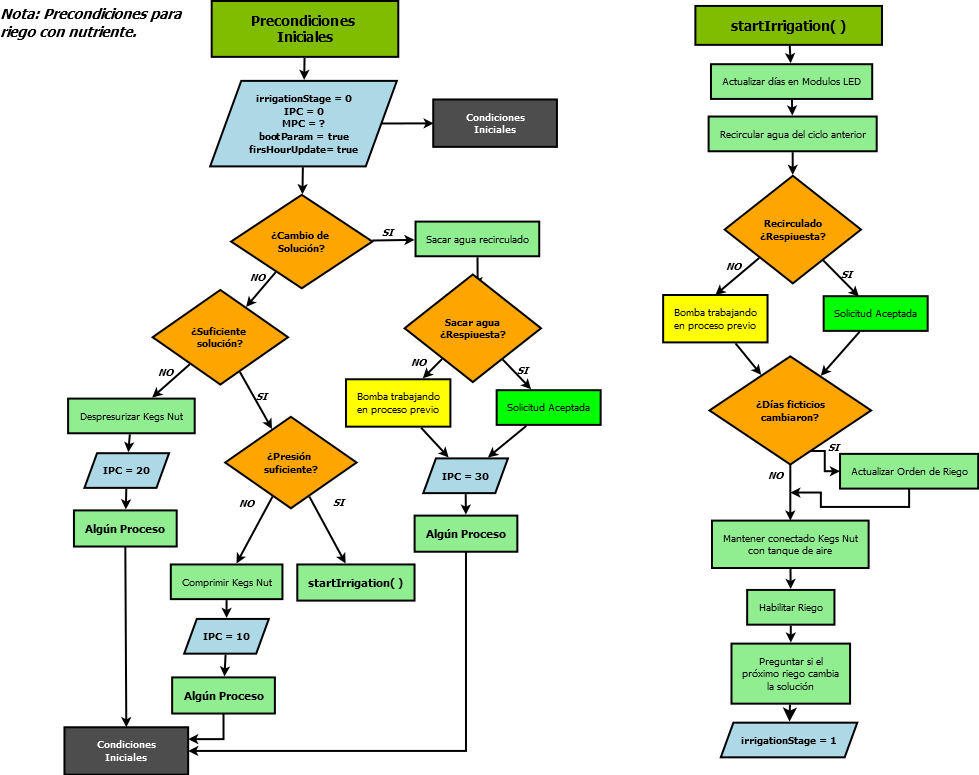
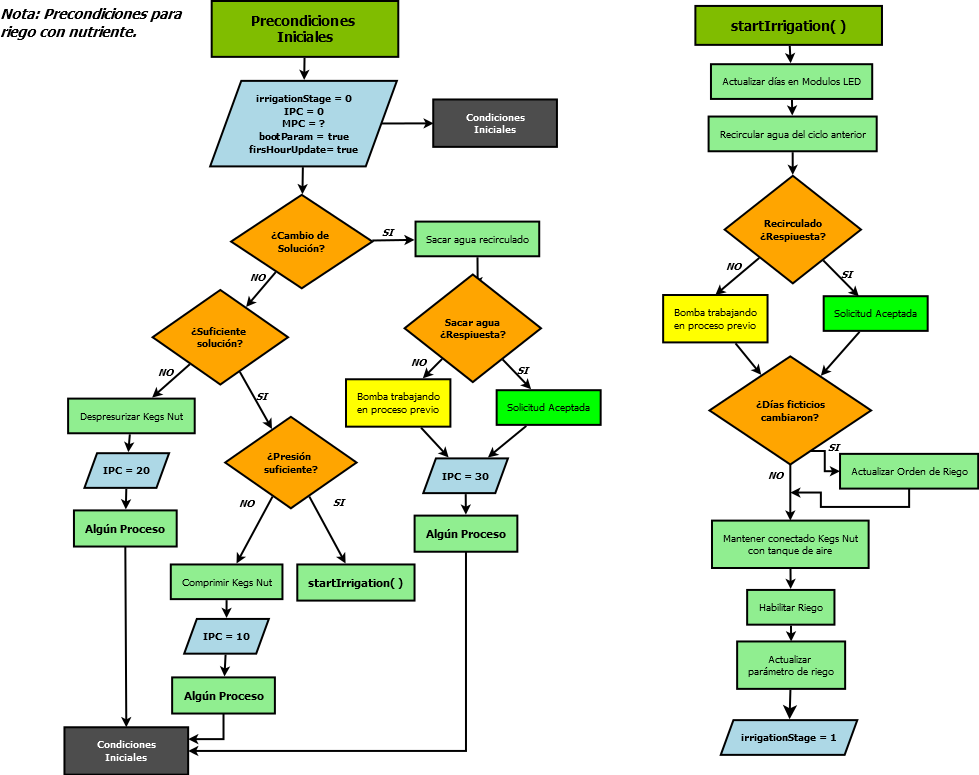
Creation of irrigationControl class and full integration in generalControl, flowCharts updated

Changed region(s): [[0.7354, 0.8052, 0.8887, 0.991]]

diff --git a/C++/libs/Grow/day.cpp b/C++/libs/Grow/day.cpp
@@ -16,7 +16,7 @@ MultiDay::MultiDay() // Constructor
 MultiDay::MultiDay(uint8_t cyclesPerDay, float percentageLight, float initialHour) // Constructor
   { __isItDay = LOW;
 
-    if(24%cyclesPerDay == 0 && percentageLight>=0 && percentageLight<=100 && initialHour<24 && initialHour>=0 ){ // If paremeters are wrong then...
+    if(24%cyclesPerDay == 0 && percentageLight>=0 && percentageLight<=100 && initialHour<24 && initialHour>=0 ){ // If paremeters are fine then...
       int hoursPerDay = 24/cyclesPerDay;
       __daysPerDay = cyclesPerDay;
       __hoursDay = (hoursPerDay*percentageLight)/100;
@@ -36,12 +36,6 @@ MultiDay::MultiDay(uint8_t cyclesPerDay, float percentageLight, float initialHou
        __hoursDay = 16;
        __hoursNight = 8;
        __beginHour[0] = 6;
-       // Cycles are not a divisor of 24 hrs
-       if(24%cyclesPerDay != 0){ Serial.println(F("Parameter cyclesPerDay incorrect")); }
-       // percentageLight out of range [0-100]
-       if(percentageLight<0 || percentageLight>100){ Serial.println(F("Parameter percentageLight incorrect")); }
-       // initialHourout of Range [0-24) hrs
-       if(initialHour>=24 || initialHour<0){ Serial.println(F("Parameter initialHour incorrect")); }
     }
   }
 
@@ -75,7 +69,7 @@ void MultiDay::redefine(uint8_t cyclesPerDay, float percentageLight, float initi
   }
 
 bool MultiDay::isDay(uint8_t HOUR, uint8_t MINUTE)
-  { float actualHour = HOUR + MINUTE/60;
+  { float actualHour = float(HOUR) + float(MINUTE)/60;
     uint8_t control_Stage = 200;
 
     for(int i=__daysPerDay-1; i>=0; i--){
@@ -193,4 +187,189 @@ void LED_Mod::enable(uint8_t floor, uint8_t region)
         else{ ptr[i]->enable(false); }
       }
     }
+  }
+
+/***   irrigationController   ***/
+irrigationController::irrigationController() // Default Constructor
+  { __solution = 0; // Not solution define yet
+    __actualCycle = 0;
+    __cyclesPerDay = 1;
+    __hoursPerCycle = 24;
+    __beginHour[0] = 0;
+
+    for(int i=0; i<MAX_SOLUTIONS_NUMBER; i++){
+      __order[i] = i;
+      __percentage[i] = 25;
+    }
+  }
+
+// Constructor
+irrigationController::irrigationController( uint8_t cyclesPerDay,
+                                            uint8_t initialHour,
+                                            uint8_t ord1,
+                                            uint8_t ord2,
+                                            uint8_t ord3,
+                                            uint8_t ord4,
+                                            uint8_t per1,
+                                            uint8_t per2,
+                                            uint8_t per3,
+                                            uint8_t per4 ){
+    __solution = 0; // Not solution define yet
+    __actualCycle = 0;
+
+    // If paremeters are fine then...
+    if(24%cyclesPerDay==0 && initialHour<24 && initialHour>=0 &&
+       ord1+ord2+ord3+ord4==6 &&
+       ord1!=ord2 && ord1!=ord3 && ord1!=ord4 && ord2!=ord3 && ord2!=ord4 && ord3!=ord4 &&
+       per1+per2+per3+per4==100){
+
+      __cyclesPerDay = cyclesPerDay;
+      __hoursPerCycle = 24/cyclesPerDay;
+
+      __beginHour[0] = initialHour-__hoursPerCycle*int(initialHour/__hoursPerCycle);
+
+      if(__cyclesPerDay>1){
+        for(int i=1; i<__cyclesPerDay; i++){
+          __beginHour[i] = __beginHour[i-1] + __hoursPerCycle;
+        }
+      }
+
+      __order[0] = ord1; __order[1] = ord2; __order[2] = ord3; __order[3] = ord4;
+      __percentage[0] = per1; __percentage[1] = per2;
+      __percentage[2] = per3; __percentage[3] = per4;
+    }
+
+    else{ // If parameters are wrong set default cycle.
+        __cyclesPerDay = 1;
+        __hoursPerCycle = 24;
+        __beginHour[0] = 0;
+
+        for(int i=0; i<MAX_SOLUTIONS_NUMBER; i++){
+          __order[i] = i;
+          __percentage[i] = 25;
+        }
+    }
+  }
+
+uint8_t irrigationController::getSolution()
+  { return __solution; }
+
+uint8_t irrigationController::getCycle()
+  { return __actualCycle; }
+
+void irrigationController::redefine( uint8_t cyclesPerDay,
+                                     uint8_t initialHour,
+                                     uint8_t ord1,
+                                     uint8_t ord2,
+                                     uint8_t ord3,
+                                     uint8_t ord4,
+                                     uint8_t per1,
+                                     uint8_t per2,
+                                     uint8_t per3,
+                                     uint8_t per4 ){
+    __actualCycle = 0;
+
+    // If paremeters are fine then...
+    if(24%cyclesPerDay==0 && initialHour<24 && initialHour>=0 &&
+       ord1+ord2+ord3+ord4==6 &&
+       ord1!=ord2 && ord1!=ord3 && ord1!=ord4 && ord2!=ord3 && ord2!=ord4 && ord3!=ord4 &&
+       per1+per2+per3+per4==100){
+
+      __cyclesPerDay = cyclesPerDay;
+      __hoursPerCycle = 24/cyclesPerDay;
+
+      __beginHour[0] = initialHour-__hoursPerCycle*int(initialHour/__hoursPerCycle);
+
+      if(__cyclesPerDay>1){
+        for(int i=1; i<__cyclesPerDay; i++){
+          __beginHour[i] = __beginHour[i-1] + __hoursPerCycle;
+        }
+      }
+
+      __order[0] = ord1; __order[1] = ord2; __order[2] = ord3; __order[3] = ord4;
+      __percentage[0] = per1; __percentage[1] = per2;
+      __percentage[2] = per3; __percentage[3] = per4;
+    }
+
+    else{ // If parameters are wrong set default cycle.
+        __cyclesPerDay = 1;
+        __hoursPerCycle = 24;
+        __beginHour[0] = 0;
+
+        for(int i=0; i<MAX_SOLUTIONS_NUMBER; i++){
+          __order[i] = i;
+          __percentage[i] = 25;
+        }
+       // Cycles are not a divisor of 24 hrs
+       if(24%cyclesPerDay != 0){ Serial.println(F("Parameter cyclesPerDay incorrect")); }
+       // percentages not sum 100
+       if(per1+per2+per3+per4!=100){ Serial.println(F("Percentages sum has to be equal to 100")); }
+       // order parameters wrong
+       if(ord1+ord2+ord3+ord4!=6 || ord1==ord2 || ord1==ord3 || ord1==ord4 ||
+          ord2==ord3 || ord2==ord4 || ord3==ord4){ Serial.println(F("Order parameters incorrect")); }
+    }
+  }
+
+uint8_t irrigationController::whatSolution(uint8_t HOUR, uint8_t MINUTE)
+  { bool resp = false;
+    uint8_t control_Stage = 200;
+    float actualHour = float(HOUR) + float(MINUTE)/60;
+
+    // Get the actual irrigation stage
+    for(int i=__cyclesPerDay-1; i>=0; i--){
+      if(__beginHour[i]<=actualHour){
+        control_Stage = i;
+        break;
+      }
+    }
+    if(control_Stage == 200){ control_Stage = __cyclesPerDay-1; }
+
+    // Get the time passed into the actual stage
+    if(__cyclesPerDay-control_Stage==1 && actualHour-__beginHour[control_Stage]<0){
+      actualHour += 24-__beginHour[control_Stage];
+    }
+    else{
+      actualHour -= __beginHour[control_Stage];
+    }
+
+    // Get the percentage of the time that have already passed
+    float percentageGap = float(actualHour)/__hoursPerCycle*100;
+    float percentageSum = 0;
+    if(!resp){
+      for(int i=0; i<MAX_SOLUTIONS_NUMBER; i++){
+        if(__order[i]==0){
+          percentageSum += __percentage[i];
+          __solution = i+1;
+        }
+      }
+      if(percentageGap<=percentageSum){ resp = true; }
+    }
+
+    if(!resp){
+      for(int i=0; i<MAX_SOLUTIONS_NUMBER; i++){
+        if(__order[i]==1){
+          percentageSum += __percentage[i];
+          __solution = i+1;
+        }
+      }
+      if(percentageGap<=percentageSum){ resp = true; }
+    }
+
+    if(!resp){
+      for(int i=0; i<MAX_SOLUTIONS_NUMBER; i++){
+        if(__order[i]==2){
+          percentageSum += __percentage[i];
+          __solution = i+1;
+        }
+      }
+      if(percentageGap<=percentageSum){ resp = true; }
+    }
+
+    if(!resp){
+      for(int i=0; i<MAX_SOLUTIONS_NUMBER; i++){
+        if(__order[i]==3){ __solution = i+1; }
+      }
+    }
+
+    return __solution;
   }

diff --git a/C++/libs/Grow/day.h b/C++/libs/Grow/day.h
@@ -37,6 +37,7 @@ along with Grow.  If not, see <https://www.gnu.org/licenses/>.
 #define MAX_LEDS    20 // Max LEDs Objects
 #define MAX_FLOOR   4 // Number of floors
 #define MAX_REGION  4 // Number of regions
+#define MAX_SOLUTIONS_NUMBER 4 // The max number of solutions
 
 // Class to manage multiples day-night cycles in 24 hours
 class MultiDay
@@ -92,6 +93,56 @@ class LED_Mod
         static void turnOff(uint8_t floor); // Turn off all the floor
         // Enable/Disable regions minor than region parameter into a floor
         static void enable(uint8_t floor, uint8_t region);
+   };
+
+// Class to control irrigation routine
+/*
+Definitions:
+  Solution 1 = KNO3
+  Solution 2 = NH4H2PO04
+  Solution 3 = CA(NO3)2
+  Solution 4 = MGSO4 + Micros
+*/
+
+class irrigationController
+  { private:
+      uint8_t __solution;
+      uint8_t __actualCycle;
+      uint8_t __cyclesPerDay;
+      uint8_t __order[4];
+      uint8_t __percentage[4];
+      uint8_t __hoursPerCycle;
+      uint8_t __beginHour[24]; // Max 24 cycles per day
+
+    public:
+      // Constructor by default 1 irrigationCycle, order = 1,2,3,4 and 25% each solution
+      irrigationController();
+      // Constructor with complete flexibility
+      irrigationController(uint8_t cyclesPerDay,
+                        uint8_t initialHour,
+                        uint8_t ord1,
+                        uint8_t ord2,
+                        uint8_t ord3,
+                        uint8_t ord4,
+                        uint8_t per1,
+                        uint8_t per2,
+                        uint8_t per3,
+                        uint8_t per4 );
+      uint8_t getSolution(); // Returns __solution
+      uint8_t getCycle(); // Returns __actualCycle
+      // Returns true if succesful
+      void redefine(uint8_t cyclesPerDay,
+                    uint8_t initialHour,
+                    uint8_t ord1,
+                    uint8_t ord2,
+                    uint8_t ord3,
+                    uint8_t ord4,
+                    uint8_t per1,
+                    uint8_t per2,
+                    uint8_t per3,
+                    uint8_t per4 );
+      // Update and return the solution with the given hour
+      uint8_t whatSolution(uint8_t HOUR, uint8_t MINUTE);
    };
 
   #endif
